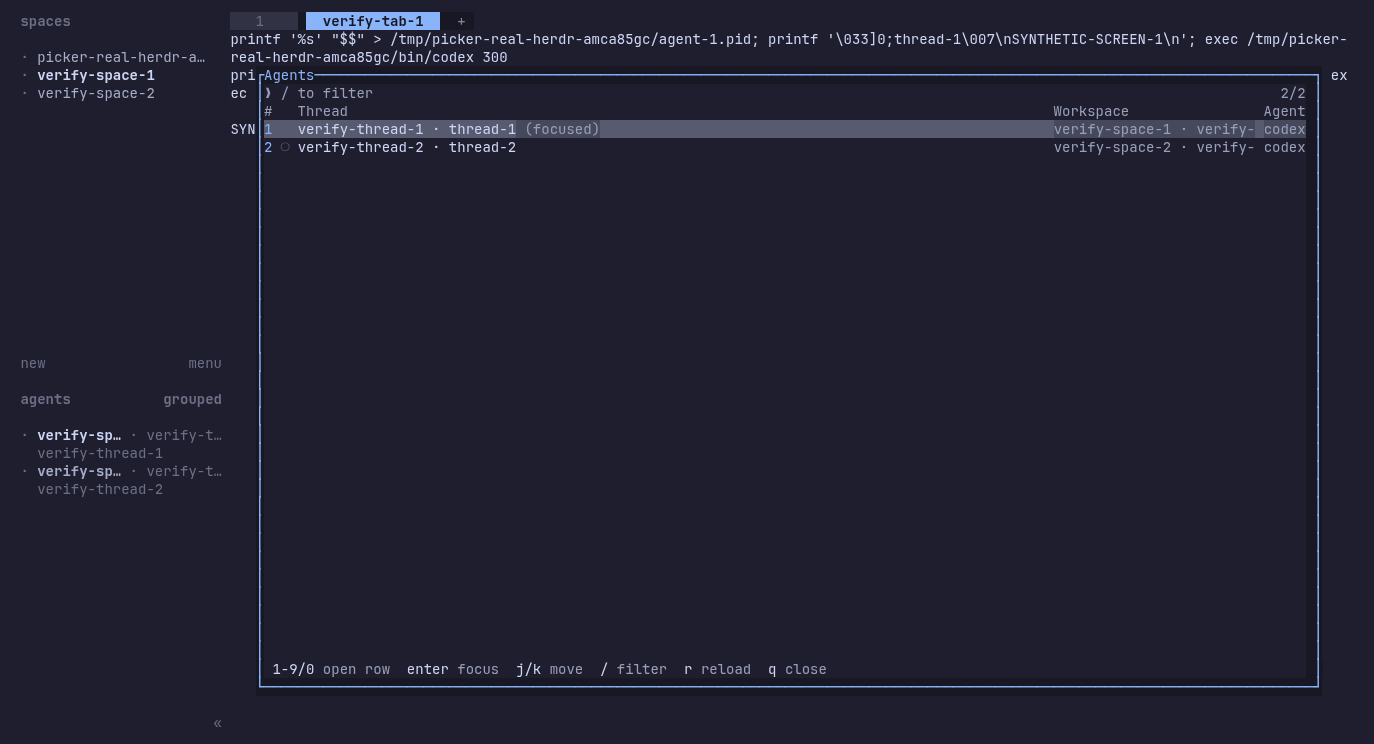
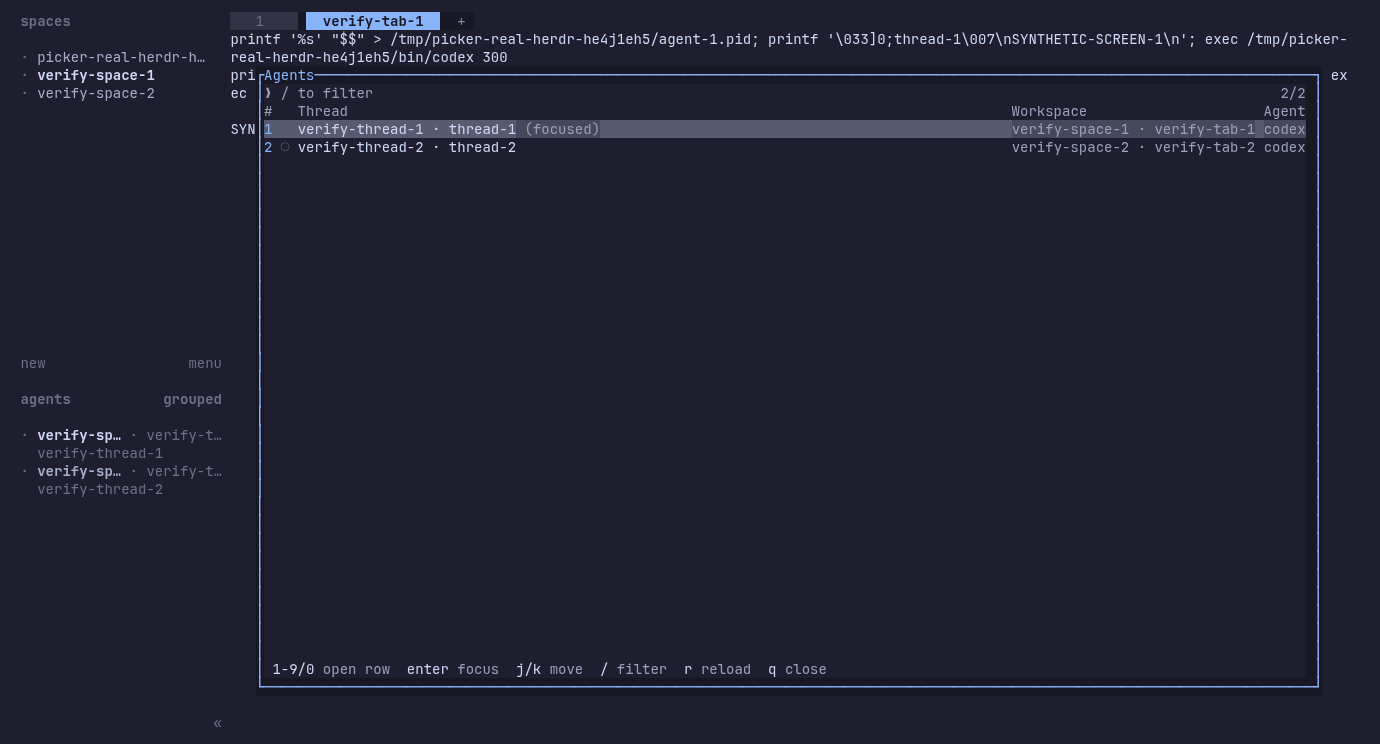
feat(no-ticket): address picker review findings

diff --git a/.agents/skills/verify-agents-picker/scripts/verify.py b/.agents/skills/verify-agents-picker/scripts/verify.py
@@ -37,9 +37,9 @@ def fixture(args):
     if args == ['agent', 'list']:
         result = {'agents': state['agents']}
     elif args == ['workspace', 'list']:
-        result = {'workspaces': [{'workspace_id': 'verify-w', 'label': 'Verify', 'tab_count': 2}]}
+        result = {'workspaces': [{'workspace_id': 'verify-w', 'label': 'Verify workspace', 'tab_count': 2}]}
     elif args == ['tab', 'list']:
-        result = {'tabs': [{'tab_id': 'verify-t', 'label': 'Checks', 'number': 1}]}
+        result = {'tabs': [{'tab_id': 'verify-t', 'label': 'Verification checks', 'number': 1}]}
     elif len(args) == 3 and args[0] in ('workspace', 'tab', 'agent') and args[1] == 'focus':
         result = {}
     elif args == ['plugin', 'pane', 'open', '--plugin', 'yxhta.agents-picker', '--entrypoint', 'picker', '--focus']:
@@ -87,7 +87,6 @@ def run_case(feature, binary, evidence, case=None):
     env.update(HERDR_BIN_PATH=str(wrapper), HERDR_CONFIG_PATH=str(scratch / 'config.toml'),
                HERDR_PLUGIN_STATE_DIR=str(scratch / 'state'), HERDR_PANE_ID='verify-picker',
                HERDR_PLUGIN_ID='yxhta.agents-picker', PICKER_VERIFY_SCRATCH=str(scratch), TERM='xterm-256color')
-    env.pop('TMUX', None)
     env.pop('NO_COLOR', None)
     if case in ('reorder', 'selection', 'glyphs'):
         (scratch / 'config.toml').write_text('[ui]\nagent_panel_sort = "priority"\n')
@@ -221,6 +220,7 @@ def run_case(feature, binary, evidence, case=None):
             snapshot('automatic-reload')
             keys('q')
         elif feature == 'launch':
+            assert 'Verify workspace · Verification checks' in screen(), 'workspace/tab label is clipped despite spare width'
             keys('q')
         elif feature == 'numbers':
             if case == 'empty':
@@ -229,11 +229,6 @@ def run_case(feature, binary, evidence, case=None):
                     noop_digit(label)
                 keys('q')
             else:
-                if case == 'digit-1' and not rows():
-                    text('1')
-                    time.sleep(.4)
-                    snapshot('baseline-after-digit')
-                    assert any(call[:2] == ['agent', 'focus'] for call in calls()), 'digit 1 did not dispatch focus; no visible numeric labels'
                 rendered = labeled()
                 assert 'Agents' not in screen(), 'inner Agents title remains'
                 assert not any(char in screen() for char in '╭╮╰╯┌┐└┘│'), 'inner border remains'

diff --git a/src/ui.rs b/src/ui.rs
@@ -46,11 +46,19 @@ fn columns(width: u16, app: &App) -> [Constraint; 5] {
         .unwrap_or(5)
         .max(5);
     let kind_width = u16::try_from(kind_width).unwrap_or(u16::MAX).min(width / 5);
+    let location_width = (0..app.agents.len())
+        .map(|index| app.location(index).chars().count())
+        .max()
+        .unwrap_or(9)
+        .max(9);
+    let location_width = u16::try_from(location_width)
+        .unwrap_or(u16::MAX)
+        .min(width / 4);
     [
         Constraint::Length(1),
         Constraint::Length(1),
         Constraint::Fill(1),
-        Constraint::Length((width / 5).min(24)),
+        Constraint::Length(location_width),
         Constraint::Length(kind_width),
     ]
 }
@@ -208,8 +216,6 @@ fn hint_line(hints: &[(&'static str, &'static str)]) -> Line<'static> {
     Line::from(spans)
 }
 
-/// Centered placeholder for empty list/preview areas, with an optional dimmed
-/// hint on how to get out of the state.
 fn empty_state(frame: &mut Frame, area: Rect, message: &str, hint: &str) {
     let mut lines = vec![Line::raw(""); usize::from(area.height / 3)];
     lines.push(Line::from(message));

diff --git a/src/herdr.rs b/src/herdr.rs
@@ -88,7 +88,7 @@ pub struct Agent {
 }
 
 impl Agent {
-    /// Focus/read/get target. `herdr agent {focus,get,read}` only resolve
+    /// `herdr agent focus` resolves
     /// `pane_id` targets (`terminal_id` started returning `agent_not_found`
     /// on Herdr 0.7.5); `terminal_id` is kept as a fallback for older
     /// Herdr builds or agents Herdr reports without a `pane_id`.

diff --git a/.agents/skills/verify-agents-picker/features/launch.md b/.agents/skills/verify-agents-picker/features/launch.md
@@ -4,4 +4,17 @@ Run `python3 .agents/skills/verify-agents-picker/scripts/verify.py run launch --
 
 q exits with code zero and no focus requests. Invoke the same exact executable with `--open`; it must request `plugin pane open --plugin yxhta.agents-picker --entrypoint picker --focus` successfully. The fixture does not render a Herdr popup.
 
-Ctrl+C and navigation-mode Escape are additional close paths. The private-Herdr driver verifies the popup title, border ownership, geometry, and real focus with synthetic processes. Never link into a live user configuration for verification.
+Ctrl+C and navigation-mode Escape are additional close paths. Use the manual check below for popup geometry and real focus. Never link into a live user configuration for verification.
+
+## Real Herdr check
+
+Use a throwaway harness or run these steps manually. Herdr and tmux are required.
+
+1. Create an owned temporary directory. In a subshell, unset inherited `HERDR_*`, `TMUX*`, `BASH_ENV` and `ENV` variables. Set `HOME`, all `XDG_*` directories, and `HERDR_SOCKET_PATH` to paths inside that directory. Create those directories; give `XDG_RUNTIME_DIR` mode 700. Set `HERDR_BIN_PATH` to the installed Herdr executable. Record these paths before starting anything.
+2. Copy the reviewed plugin manifest into an owned plugin directory. Symlink its `target/release/agents-picker` to the exact release binary under test. Disable update checks and sounds in the private Herdr config. Start Herdr inside `tmux -f /dev/null -S <owned-socket> new-session -d -s verify -x 160 -y 40 'exec env -u TMUX -u TMUX_PANE herdr'`. Every subsequent tmux command must use that same socket. Run `herdr plugin link <owned-plugin-dir>` with the private environment.
+3. Copy `/bin/sleep` to `<owned-dir>/bin/codex`. Create two workspaces with `herdr workspace create --cwd <owned-dir> --label <distinct-label> --focus`, then a named tab in each with `herdr tab create --workspace <id> --label <distinct-tab> --focus`. Record the returned workspace/tab/pane IDs.
+4. In each test pane, use `herdr pane run <pane-id> <command>` to set a distinct terminal title with an OSC 0 escape, print a unique marker and `exec <owned-dir>/bin/codex 300`. Record each PID before exec. These are sleeping synthetic processes, not AI calls. Wait for both rows in `herdr agent list`; assign names with `herdr agent rename <pane-id> <name>`.
+5. Focus the first workspace, tab and agent using their CLI focus commands. Invoke the exact picker binary with `--open` under the private environment. Capture plain and ANSI screens with `tmux -S <owned-socket> capture-pane -p [-e] -t verify:0.0`.
+6. Verify one outer `Agents` title/border, no inner frame or preview, both thread names, legible workspace/tab labels and visible numbers. The popup is 95% of Herdr's content width and 90% of its content height, excluding the sidebar/status bar. Allow one cell of rounding.
+7. Read the second thread's number from the screen and send it with `tmux -S <owned-socket> send-keys -t verify:0.0 <digit>`. Require the popup to disappear and the second terminal marker to appear. Check `herdr pane current`, `workspace list` and `tab list` against the recorded IDs. Repeat cancellation with Escape and require focus to remain unchanged.
+8. On success or failure, stop the private Herdr server and private tmux server. Verify their sockets refuse connections and recorded synthetic PIDs have exited before removing the owned directory. Retain captures, CLI results, binary hash and cleanup proof outside it. Never kill by process name or use a user's socket.

diff --git a/.agents/skills/verify-agents-picker/features/README.md b/.agents/skills/verify-agents-picker/features/README.md
@@ -8,4 +8,4 @@ The executable boundary is the release TUI driven by keys in private tmux. Herdr
 - [Refresh](refresh.md): manual and automatic list updates.
 - [Launch](launch.md): closing and `--open` requests.
 
-Alpha and Beta are the normal fixture, initially idle in Verify / Checks. Numbers uses fourteen distinct threads and terminal titles, with smaller and empty fixtures where needed. Tests never read transcripts. Real popup geometry and real server focus require the separate private-Herdr driver; CLI fixture success does not prove them.
+Alpha and Beta are the normal fixture, initially idle in Verify workspace / Verification checks. Numbers uses fourteen distinct threads and terminal titles, with smaller and empty fixtures where needed. Tests never read transcripts. Real popup geometry and real server focus require the [manual private-Herdr check](launch.md#real-herdr-check); CLI fixture success does not prove them.

diff --git a/.agents/skills/verify-agents-picker/features/navigation.md b/.agents/skills/verify-agents-picker/features/navigation.md
@@ -4,4 +4,4 @@ Run `python3 .agents/skills/verify-agents-picker/scripts/verify.py run navigatio
 
 From Alpha, j then Enter must exit successfully and request workspace `verify-w`, tab `verify-t`, then agent `verify-beta`, exactly once and in that order. ANSI captures preserve selection styling. Numeric dispatch, scrolling, resize, and selection identity across priority reorder are covered by `numbers`.
 
-Arrow keys, wraparound, Ctrl+J/Ctrl+K, and search-mode Enter are additional manual cases. Real server/client focus requires the private-Herdr driver.
+Arrow keys, wraparound, Ctrl+J/Ctrl+K, and search-mode Enter are additional manual cases. Real server/client focus requires the [manual private-Herdr check](launch.md#real-herdr-check).

diff --git a/README.md b/README.md
@@ -21,6 +21,8 @@ Replace `<reviewed-commit>` with the deployed commit recorded in your dotfiles
 Herdr `AGENTS.md`. Install on each machine. The plugin ID stays
 `yxhta.agents-picker`, so existing keybindings work. Inspect `herdr plugin list`
 before replacing an existing installation; preserve any local modifications.
+GitHub installs replace in place with rollback on failure. For a local link,
+run `herdr plugin unlink yxhta.agents-picker` before the pinned install.
 
 Requires Herdr 0.7.2+ on macOS or Linux. The install step builds the plugin
 from source (`cargo build --release --locked`), so a Rust toolchain is needed.
